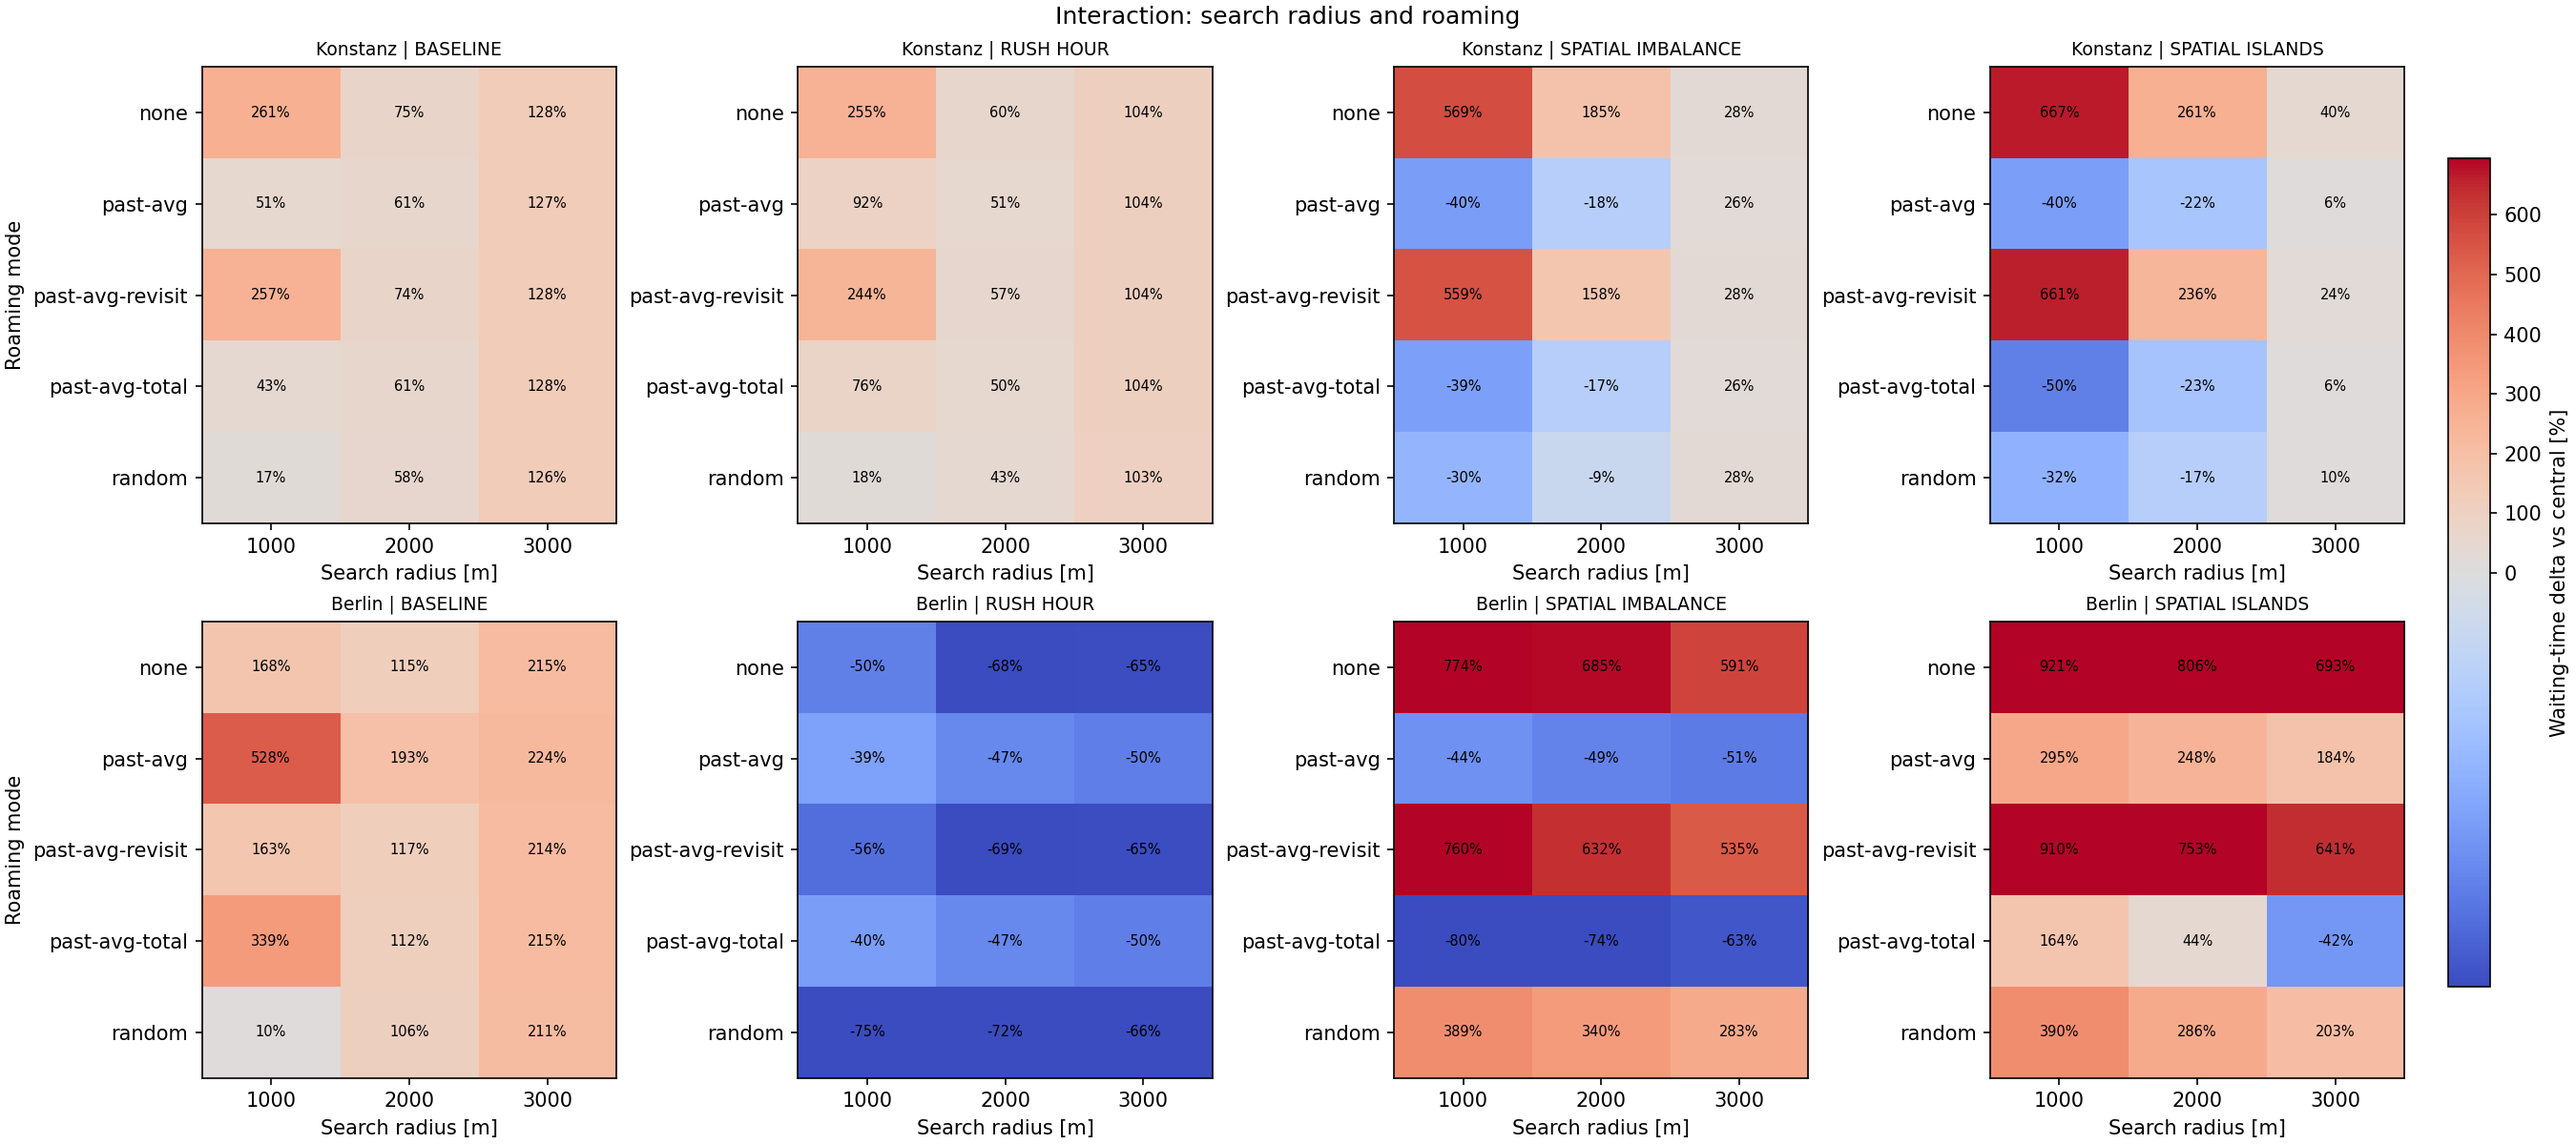
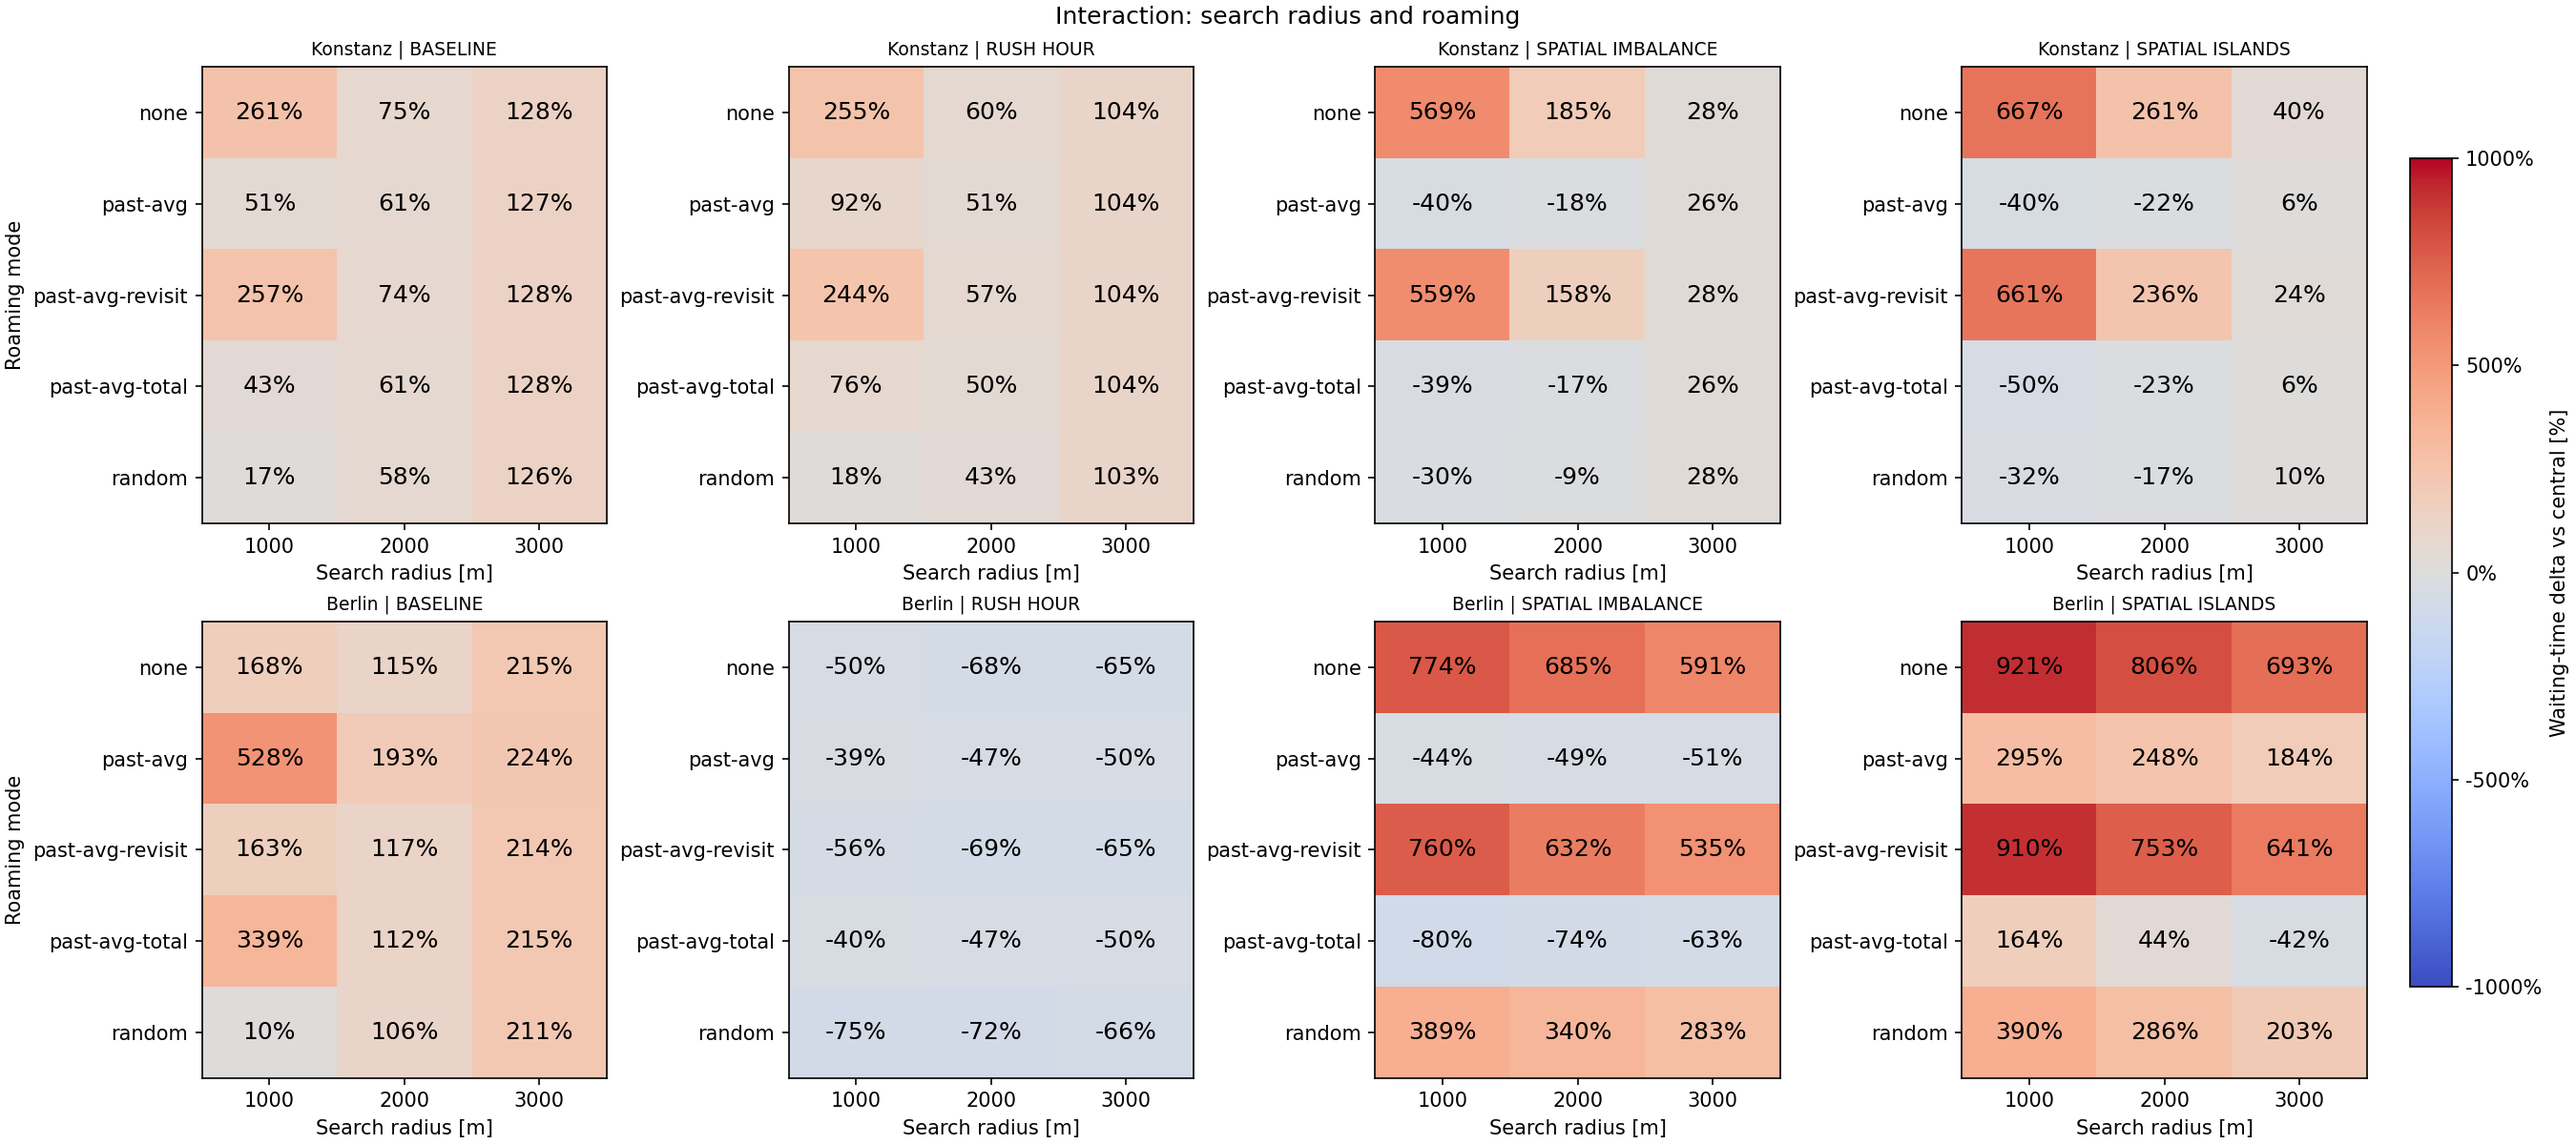
chore: heatmaps adjustments

diff --git a/mass-run-analysis/analyze_mass_run.py b/mass-run-analysis/analyze_mass_run.py
@@ -2315,9 +2315,8 @@ def plot_interaction_grid(
     groups = list(data.groupby(["taxiCount", "clientCount", "spawnScenario"], dropna=False))
     fig, axes = plt.subplots(2, 4, figsize=(18, 8), squeeze=False, constrained_layout=True)
     values = data["waitingDeltaPct"].replace([np.inf, -np.inf], np.nan).dropna()
-    low = min(-1.0, float(values.quantile(0.05)))
-    high = max(1.0, float(values.quantile(0.95)))
-    norm = matplotlib.colors.TwoSlopeNorm(vmin=low, vcenter=0, vmax=high)
+    limit = max(100.0, float(np.ceil(values.abs().max() / 100) * 100))
+    norm = matplotlib.colors.TwoSlopeNorm(vmin=-limit, vcenter=0, vmax=limit)
     image = None
     for index, (ax, (keys, part)) in enumerate(zip(axes.ravel(), groups)):
         grid = part.pivot(index=row, columns=column, values="waitingDeltaPct").sort_index()
@@ -2332,7 +2331,7 @@ def plot_interaction_grid(
             for x in range(len(grid.columns)):
                 value = grid.iloc[y, x]
                 if pd.notna(value):
-                    ax.text(x, y, f"{value:.0f}%", ha="center", va="center", fontsize=7)
+                    ax.text(x, y, f"{value:.0f}%", ha="center", va="center", fontsize=12)
     for ax in axes.ravel()[len(groups):]:
         ax.set_visible(False)
     if image is not None:
@@ -2340,6 +2339,8 @@ def plot_interaction_grid(
             image,
             ax=axes.ravel().tolist(),
             label="Waiting-time delta vs central [%]",
+            ticks=np.linspace(-limit, limit, 5),
+            format="%.0f%%",
             shrink=0.82,
             pad=0.02,
         )
